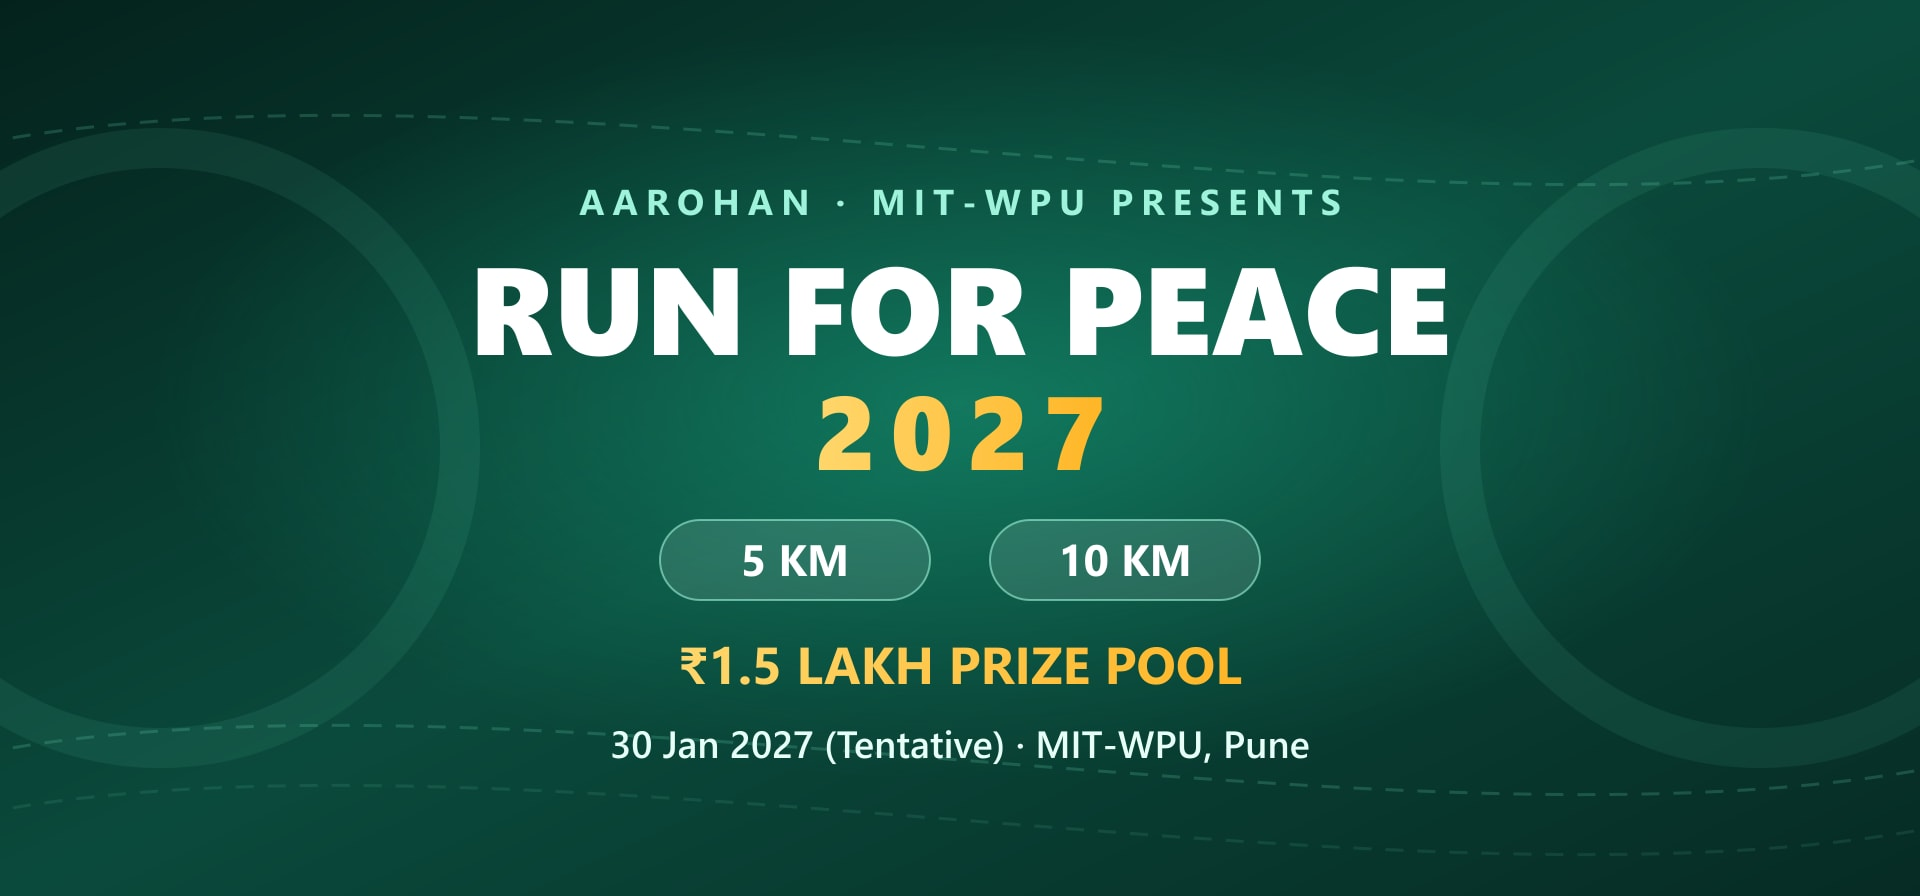
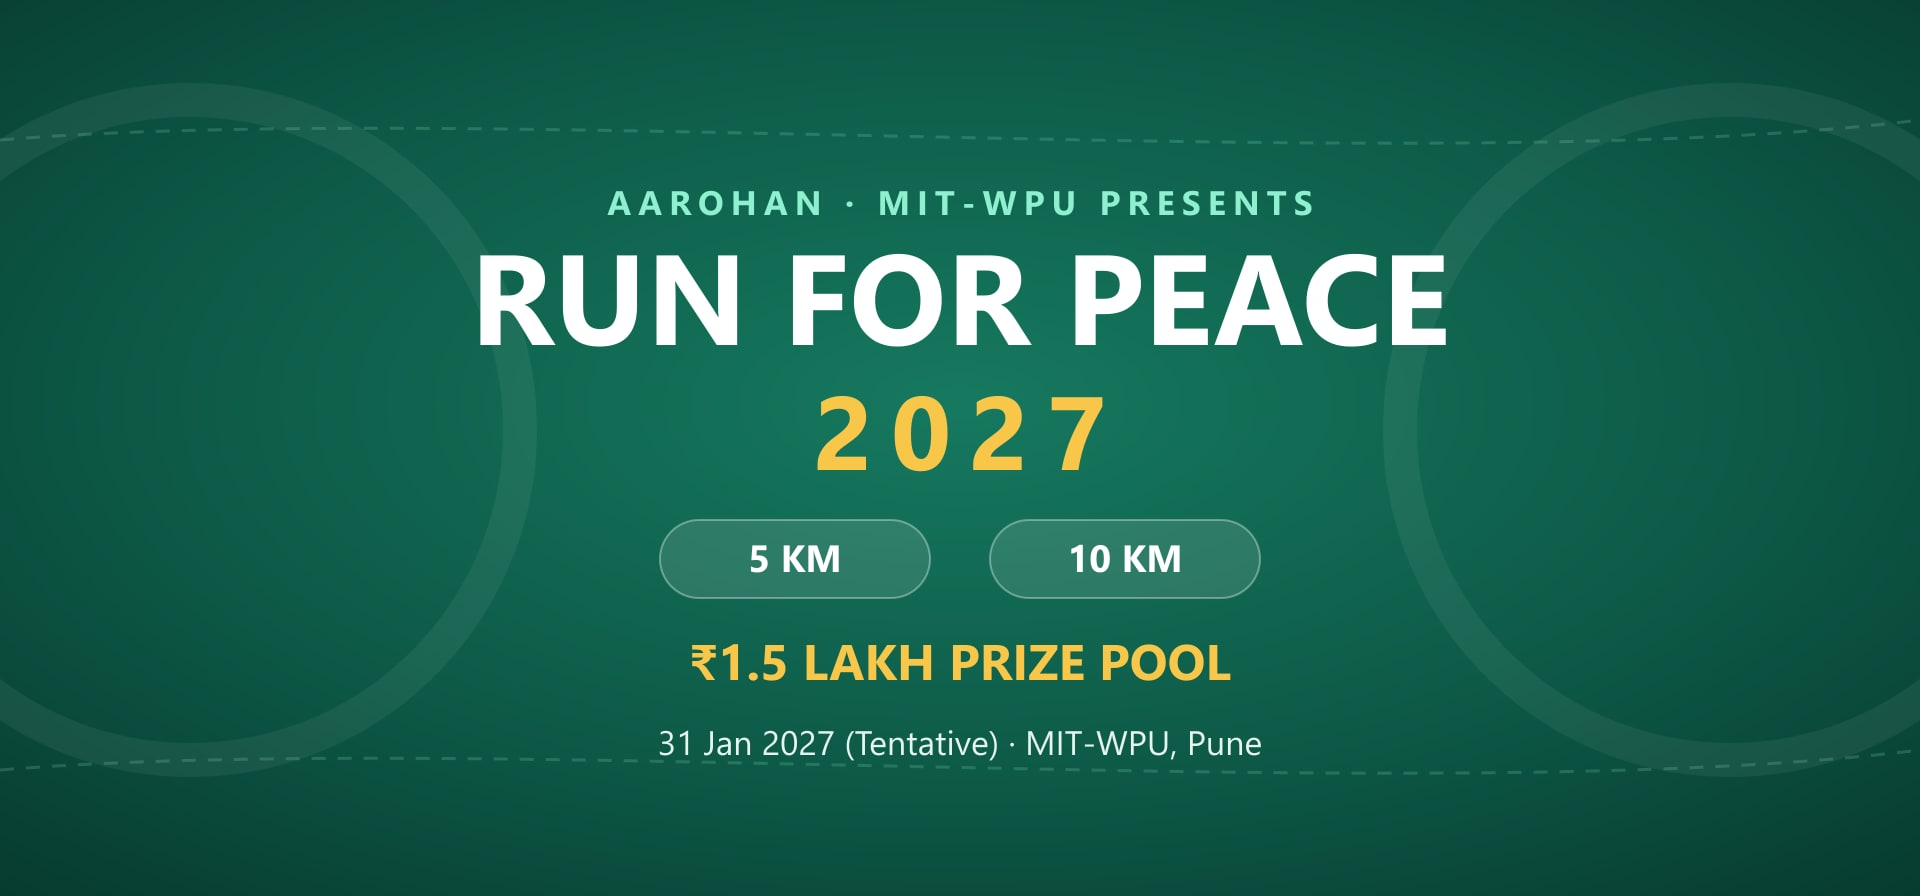
Campus Hunt game detail page with pre-registration; Run for Peace 31 Jan poster

diff --git a/frontend/src/features/college-platform/CollegePlatform.jsx b/frontend/src/features/college-platform/CollegePlatform.jsx
@@ -137,26 +137,20 @@ function GameCard({ game }) {
 
 const EMPTY_PRE_REGISTRATION = { teamName: '', captainName: '', phone: '', email: '', collegeName: '', teamSize: '' };
 
-function ComingSoonGameCard({ game }) {
-  const storageKey = `crwdctrl_prereg_${game.preRegistrationKey}`;
-  const emptyForm = useMemo(() => ({ ...EMPTY_PRE_REGISTRATION, collegeName: game.collegeName || '' }), [game.collegeName]);
-  const [open, setOpen] = useState(false);
-  const [form, setForm] = useState(emptyForm);
-  const [submitting, setSubmitting] = useState(false);
-  const [error, setError] = useState('');
+const comingSoonPath = (game) => `/games/${game.id}`;
+const preRegistrationStorageKey = (game) => `crwdctrl_prereg_${game.preRegistrationKey}`;
+
+function readPreRegisteredTeam(game) {
+  try { return localStorage.getItem(preRegistrationStorageKey(game)) || ''; } catch { return ''; }
+}
+
+function useComingSoonShare(game) {
   const [shareNote, setShareNote] = useState('');
-  const [doneTeam, setDoneTeam] = useState(() => {
-    try { return localStorage.getItem(storageKey) || ''; } catch { return ''; }
-  });
-  useEffect(() => {
-    if (window.location.hash !== `#${game.id}`) return;
-    document.getElementById(game.id)?.scrollIntoView({ behavior: 'smooth', block: 'start' });
-  }, [game.id]);
   const share = async () => {
     const result = await shareContent({
       title: game.title,
       text: game.shareText,
-      url: `${window.location.origin}/games#${game.id}`,
+      url: `${window.location.origin}${comingSoonPath(game)}`,
       imageUrl: game.shareImage ? `${window.location.origin}${game.shareImage}` : undefined,
     });
     if (result === 'copied') {
@@ -164,6 +158,14 @@ function ComingSoonGameCard({ game }) {
       setTimeout(() => setShareNote(''), 2000);
     }
   };
+  return { share, shareNote };
+}
+
+function PreRegistrationForm({ game, onDone, onCancel }) {
+  const emptyForm = { ...EMPTY_PRE_REGISTRATION, collegeName: game.collegeName || '' };
+  const [form, setForm] = useState(emptyForm);
+  const [submitting, setSubmitting] = useState(false);
+  const [error, setError] = useState('');
   const updateField = (field) => (event) => setForm((current) => ({ ...current, [field]: event.target.value }));
   const submit = async (event) => {
     event.preventDefault();
@@ -171,10 +173,9 @@ function ComingSoonGameCard({ game }) {
     setError('');
     try {
       await submitPreRegistration({ ...form, gameKey: game.preRegistrationKey });
-      try { localStorage.setItem(storageKey, form.teamName.trim()); } catch { /* storage unavailable */ }
-      setDoneTeam(form.teamName.trim());
-      setOpen(false);
-      setForm(emptyForm);
+      const teamName = form.teamName.trim();
+      try { localStorage.setItem(preRegistrationStorageKey(game), teamName); } catch { /* storage unavailable */ }
+      onDone(teamName);
     } catch (err) {
       setError(err.message);
     } finally {
@@ -182,17 +183,38 @@ function ComingSoonGameCard({ game }) {
     }
   };
   return (
-    <article id={game.id} className="college-game-card college-game-card--coming-soon">
+    <form className="college-form college-prereg-form" onSubmit={submit}>
+      <label>Team name *<input value={form.teamName} onChange={updateField('teamName')} maxLength={60} required /></label>
+      <label>Captain name *<input value={form.captainName} onChange={updateField('captainName')} maxLength={80} autoComplete="name" required /></label>
+      <label>Mobile number *<input type="tel" inputMode="numeric" value={form.phone} onChange={updateField('phone')} autoComplete="tel" required /></label>
+      <label>Email *<input type="email" value={form.email} onChange={updateField('email')} autoComplete="email" required /></label>
+      <label>College *<input value={form.collegeName} onChange={updateField('collegeName')} maxLength={120} readOnly={Boolean(game.collegeName)} required /></label>
+      <label>Team size<select value={form.teamSize} onChange={updateField('teamSize')}><option value="">Not sure yet</option>{Array.from({ length: game.teamSize }, (_, index) => index + 1).map((size) => <option key={size} value={size}>{size}</option>)}</select></label>
+      {error ? <p className="college-error">{error}</p> : null}
+      <div className="college-prereg-form__actions">
+        <button type="button" className="college-secondary-button" onClick={onCancel}>Cancel</button>
+        <button className="college-primary-button" disabled={submitting}>{submitting ? 'Saving…' : 'Pre-register team'}</button>
+      </div>
+    </form>
+  );
+}
+
+function ComingSoonGameCard({ game }) {
+  const [open, setOpen] = useState(false);
+  const [doneTeam, setDoneTeam] = useState(() => readPreRegisteredTeam(game));
+  const { share, shareNote } = useComingSoonShare(game);
+  return (
+    <article className="college-game-card college-game-card--coming-soon">
       <div className="college-game-card__main">
-        <div className="college-card-media">
+        <Link to={comingSoonPath(game)} className="college-card-media" aria-label={`${game.title} details`}>
           <img src={game.coverImage} alt="" />
           <span className="college-status-chip college-status-chip--soon"><Sparkles size={12} />Coming soon</span>
           <span className="college-game-card__teams"><Users size={13} />{game.capacity} teams</span>
           <div className="college-game-card__media-shade" />
-        </div>
+        </Link>
         <div className="college-card-body">
           <div className="college-game-card__title-row">
-            <h3>{game.title}</h3>
+            <Link to={comingSoonPath(game)}><h3>{game.title}</h3></Link>
             <button type="button" className="college-game-card__share" onClick={share} aria-label={`Share ${game.title}`}>
               <Share2 size={16} />{shareNote || 'Share'}
             </button>
@@ -201,7 +223,7 @@ function ComingSoonGameCard({ game }) {
           <div className="college-game-card__facts">
             <span><CalendarDays size={14} />Date coming soon</span>
             <span><Users size={14} />Team of {game.teamSize}</span>
-            <strong>Entry fee TBA</strong>
+            <strong>Free pre-registration</strong>
           </div>
           {game.highlights?.length ? (
             <ul className="college-game-card__highlights">
@@ -210,28 +232,86 @@ function ComingSoonGameCard({ game }) {
               ))}
             </ul>
           ) : null}
+          <Link to={comingSoonPath(game)} className="college-game-card__details-link">Rounds, prizes &amp; rules<ChevronRight size={15} /></Link>
         </div>
       </div>
       {doneTeam ? (
         <div className="college-game-card__interest"><Check size={16} />{doneTeam} is pre-registered · we will message you when registration opens</div>
       ) : open ? (
-        <form className="college-form college-prereg-form" onSubmit={submit}>
-          <label>Team name *<input value={form.teamName} onChange={updateField('teamName')} maxLength={60} required /></label>
-          <label>Captain name *<input value={form.captainName} onChange={updateField('captainName')} maxLength={80} autoComplete="name" required /></label>
-          <label>Mobile number *<input type="tel" inputMode="numeric" value={form.phone} onChange={updateField('phone')} autoComplete="tel" required /></label>
-          <label>Email *<input type="email" value={form.email} onChange={updateField('email')} autoComplete="email" required /></label>
-          <label>College *<input value={form.collegeName} onChange={updateField('collegeName')} maxLength={120} readOnly={Boolean(game.collegeName)} required /></label>
-          <label>Team size<select value={form.teamSize} onChange={updateField('teamSize')}><option value="">Not sure yet</option>{Array.from({ length: game.teamSize }, (_, index) => index + 1).map((size) => <option key={size} value={size}>{size}</option>)}</select></label>
-          {error ? <p className="college-error">{error}</p> : null}
-          <div className="college-prereg-form__actions">
-            <button type="button" className="college-secondary-button" onClick={() => { setOpen(false); setError(''); }}>Cancel</button>
-            <button className="college-primary-button" disabled={submitting}>{submitting ? 'Saving…' : 'Pre-register team'}</button>
-          </div>
-        </form>
+        <PreRegistrationForm game={game} onDone={(team) => { setDoneTeam(team); setOpen(false); }} onCancel={() => setOpen(false)} />
       ) : (
-        <button type="button" className="college-game-card__interest college-game-card__interest--button" onClick={() => setOpen(true)}><Sparkles size={16} />Pre-register your team name</button>
+        <button type="button" className="college-game-card__interest college-game-card__interest--button" onClick={() => setOpen(true)}><Sparkles size={16} />Pre-register your team</button>
       )}
     </article>
+  );
+}
+
+function ComingSoonGameDetail({ game }) {
+  const navigate = useNavigate();
+  const [open, setOpen] = useState(false);
+  const [doneTeam, setDoneTeam] = useState(() => readPreRegisteredTeam(game));
+  const { share, shareNote } = useComingSoonShare(game);
+  const openForm = () => {
+    setOpen(true);
+    requestAnimationFrame(() => document.getElementById('campus-hunt-prereg')?.scrollIntoView({ behavior: 'smooth', block: 'center' }));
+  };
+  return (
+    <Page>
+      <div className="college-detail-hero">
+        <img src={game.coverImage} alt="" />
+        <button type="button" className="college-hero-action college-hero-back" onClick={() => navigate(-1)} aria-label="Back"><ArrowLeft /></button>
+        <button type="button" className="college-hero-action college-hero-share" onClick={share} aria-label={`Share ${game.title}`}><Share2 /></button>
+      </div>
+      <section className="college-detail-body">
+        <div className="college-chips"><span className="is-active">CrwdCtrl Games</span><span>On campus</span><span>Coming soon</span></div>
+        <h1>{game.title}</h1>
+        <p>{game.tagline}</p>
+        <p className="college-accent-text">{shareNote || 'Pre-registrations open · Free'}</p>
+        <div className="college-detail-list">
+          <div><CalendarDays /><span><strong>Date coming soon</strong><small>Pre-registered teams hear first</small></span></div>
+          <div><MapPin /><span><strong>{game.venueFull || game.venue}</strong><small>{game.city}</small></span></div>
+          <div><ShieldCheck /><span><strong>MIT-WPU students only</strong><small>Valid MIT-WPU ID card needed on hunt day</small></span></div>
+          <div><Users /><span><strong>Teams of up to {game.teamSize}</strong><small>{game.capacity} team slots · captain registers the team</small></span></div>
+        </div>
+
+        <h2>About the game</h2>
+        <p>{game.description}</p>
+
+        <h2>Prizes</h2>
+        <div className="college-detail-list college-detail-list--prizes">
+          {game.prizes.map((prize) => (
+            <div key={prize.label}><Trophy /><span><strong>{prize.label}</strong><small>{prize.text}</small></span></div>
+          ))}
+        </div>
+
+        <h2>The round</h2>
+        <div className="college-round-card">
+          <strong>{game.round.title}</strong>
+          <p>{game.round.text}</p>
+          <ul className="college-rules">{game.round.points.map((point) => <li key={point}>{point}</li>)}</ul>
+        </div>
+
+        <h2>How it works</h2>
+        <div className="college-step-list">{game.steps.map((step, index) => <div key={step}><b>{String(index + 1).padStart(2, '0')}</b><span>{step}</span></div>)}</div>
+
+        <h2>Keep it fair. Keep it fun.</h2>
+        <ul className="college-rules">{game.rules.map((rule) => <li key={rule}>{rule}</li>)}</ul>
+
+        <div id="campus-hunt-prereg" className="college-game-card college-game-card--coming-soon college-detail-prereg">
+          {doneTeam ? (
+            <div className="college-game-card__interest"><Check size={16} />{doneTeam} is pre-registered · we will message you when registration opens</div>
+          ) : open ? (
+            <PreRegistrationForm game={game} onDone={(team) => { setDoneTeam(team); setOpen(false); }} onCancel={() => setOpen(false)} />
+          ) : null}
+        </div>
+      </section>
+      <div className="college-sticky-action">
+        <span><small>Entry</small><strong>Free</strong></span>
+        {doneTeam
+          ? <button type="button" className="college-primary-button" disabled><Check size={16} />Pre-registered</button>
+          : <button type="button" className="college-primary-button" onClick={openForm}>Pre-register team</button>}
+      </div>
+    </Page>
   );
 }
 
@@ -464,6 +544,11 @@ export function GamesPage() {
 
 export function GameDetailPage() {
   const { id } = useParams();
+  if (id === MIT_WPU_CAMPUS_HUNT.id) return <ComingSoonGameDetail game={MIT_WPU_CAMPUS_HUNT} />;
+  return <LiveGameDetail id={id} />;
+}
+
+function LiveGameDetail({ id }) {
   const navigate = useNavigate();
   const [game, setGame] = useState(null);
   const [error, setError] = useState('');

diff --git a/frontend/src/features/college-platform/comingSoonGames.js b/frontend/src/features/college-platform/comingSoonGames.js
@@ -2,9 +2,11 @@ export const MIT_WPU_CAMPUS_HUNT = {
   id: 'mit-wpu-campus-hunt-coming-soon',
   preRegistrationKey: 'mit-wpu-campus-hunt',
   title: 'Campus Hunt: MIT-WPU',
+  tagline: 'Race. Solve. Scan. Win.',
   coverImage: '/campus-hunt/v2/mit-campus-hunt-hero.jpg',
   shareImage: '/campus-hunt/v2/mit-campus-hunt-card.jpg',
   venue: 'MIT-WPU',
+  venueFull: 'MIT World Peace University, Kothrud',
   city: 'Pune',
   teamSize: 4,
   capacity: 40,
@@ -14,6 +16,34 @@ export const MIT_WPU_CAMPUS_HUNT = {
     'One round · Live leaderboard',
     'Top 5 teams win prizes',
     'Top 3 qualify for the CrwdCtrl Games Pune Championship',
+  ],
+  description: 'Campus Hunt is a one-round live treasure hunt across the MIT-WPU campus, open only to MIT-WPU students. Teams of up to 4 race between real campus spots, crack riddles and scan hidden QR checkpoints to unlock the next clue. Every scan updates the live leaderboard, so you always know who is ahead.',
+  steps: [
+    'Pre-register your team free. The date and slots reach pre-registered teams first.',
+    'On hunt day, check in with your team and your MIT-WPU ID cards.',
+    'Solve the clue, find the spot on campus and scan the QR to unlock the next clue.',
+    'Climb the live leaderboard. Final standings lock when the hunt closes.',
+  ],
+  round: {
+    title: 'The Hunt — One Round',
+    text: 'There is only one round. Every team plays the same hunt, and your live leaderboard position when the hunt closes is your final rank.',
+    points: [
+      'Each clue points to a real place on the MIT-WPU campus.',
+      'The team leader scans the checkpoint QR to unlock the next clue.',
+      'Ranked on checkpoints cleared, time taken, and bonus or penalty points.',
+    ],
+  },
+  prizes: [
+    { label: 'Top 5 teams', text: 'Win prizes, decided by the final live leaderboard' },
+    { label: 'Top 3 teams', text: 'Qualify for the CrwdCtrl Games Pune Championship' },
+  ],
+  rules: [
+    'Open only to MIT-WPU students. Every player must carry a valid MIT-WPU ID card.',
+    'Teams of 2 to 4 players. The captain pre-registers for the whole team.',
+    'The captain needs one fully charged phone; the team travels together.',
+    'Do not move, damage or share photos of QR checkpoints.',
+    'Stay inside campus limits and follow volunteer and safety instructions.',
+    'Organiser decisions on scores and results are final.',
   ],
   shareText: 'MIT-WPU Campus Hunt by CrwdCtrl Games. One round, live leaderboard. Top 5 teams win prizes and the Top 3 qualify for the Pune Championship. Pre-register your team free:',
 };

diff --git a/frontend/src/features/college-platform/collegePlatform.css b/frontend/src/features/college-platform/collegePlatform.css
@@ -122,8 +122,15 @@
 .college-prereg-form__actions{display:flex;gap:.6rem;justify-content:flex-end}
 .college-prereg-form__actions .college-primary-button{flex:1}
 html.dark .college-prereg-form,.college-page--dark .college-prereg-form{border-color:#353840}
-.college-game-card--coming-soon{scroll-margin-top:12rem}
-@media(min-width:1024px){.college-game-card--coming-soon{scroll-margin-top:5rem}}
+.college-game-card__title-row>a{color:inherit;min-width:0}
+.college-game-card__details-link{display:inline-flex;align-items:center;gap:.2rem;margin-top:.75rem;color:#087a82;font-size:.78rem;font-weight:700}
+.college-page--dark .college-game-card__details-link{color:#42d6df}
+.college-round-card{display:grid;gap:.5rem;padding:1rem;border-radius:1rem;background:#f5f6fa}
+.college-round-card>strong{font-size:.95rem}
+.college-page--dark .college-round-card{background:#1c1e22}
+.college-detail-list--prizes svg{color:#d89b00}
+.college-detail-prereg{margin-top:1.25rem;scroll-margin:6rem}
+.college-detail-prereg:empty{display:none}
 .college-game-card__title-row{display:flex;align-items:flex-start;justify-content:space-between;gap:.6rem}
 .college-game-card__share{flex-shrink:0;display:inline-flex;align-items:center;gap:.35rem;border:1px solid #dde0e7;border-radius:999px;background:transparent;color:#087a82;padding:.35rem .7rem;font:inherit;font-size:.74rem;font-weight:700;cursor:pointer}
 .college-game-card__share:hover{background:rgba(14,204,238,.08)}

diff --git a/frontend/src/App.jsx b/frontend/src/App.jsx
@@ -89,6 +89,7 @@ function ConditionalMobileBottomNav({ onShowLogin, isProfileOpen, onProfileClick
     location.pathname.startsWith('/event-community-organizer') ||
     location.pathname.startsWith('/event-organizer') ||
     location.pathname.startsWith('/host-a-game') ||
+    location.pathname.startsWith('/games/') ||
     location.pathname.startsWith('/campus-hunt') ||
     location.pathname.startsWith('/campus-hunt-volunteer') ||
     location.pathname.startsWith('/view-details') ||
